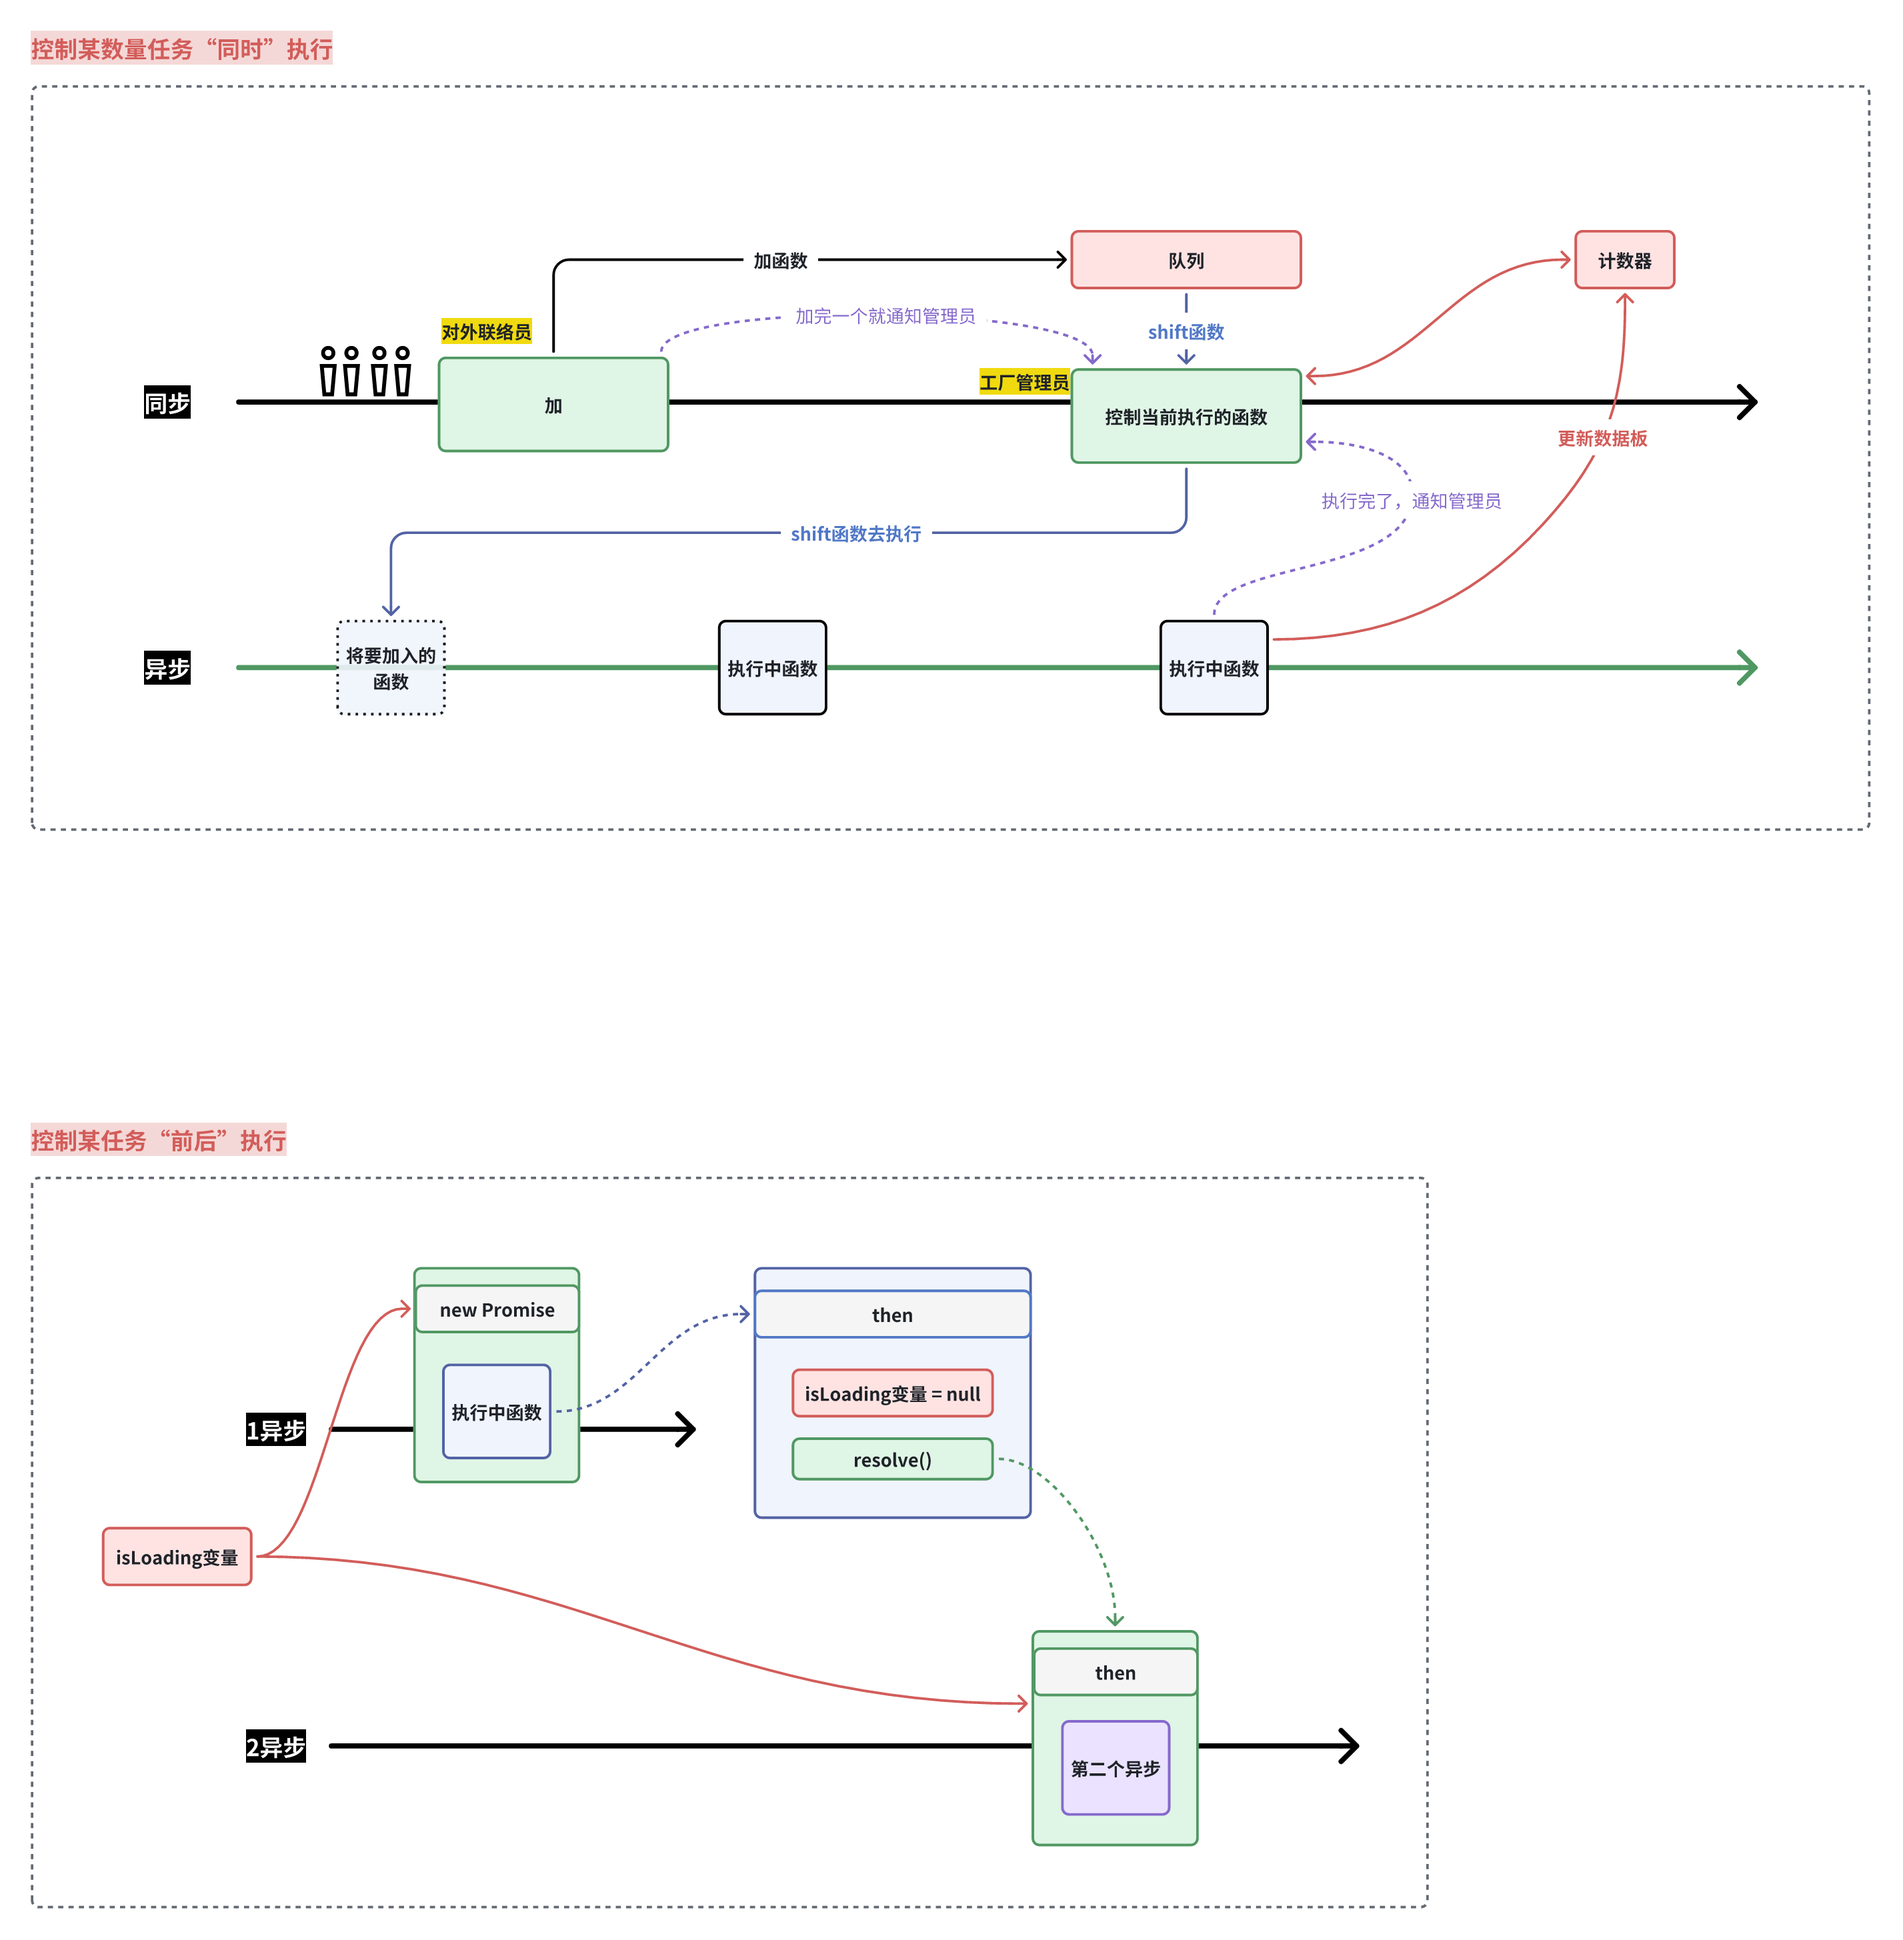
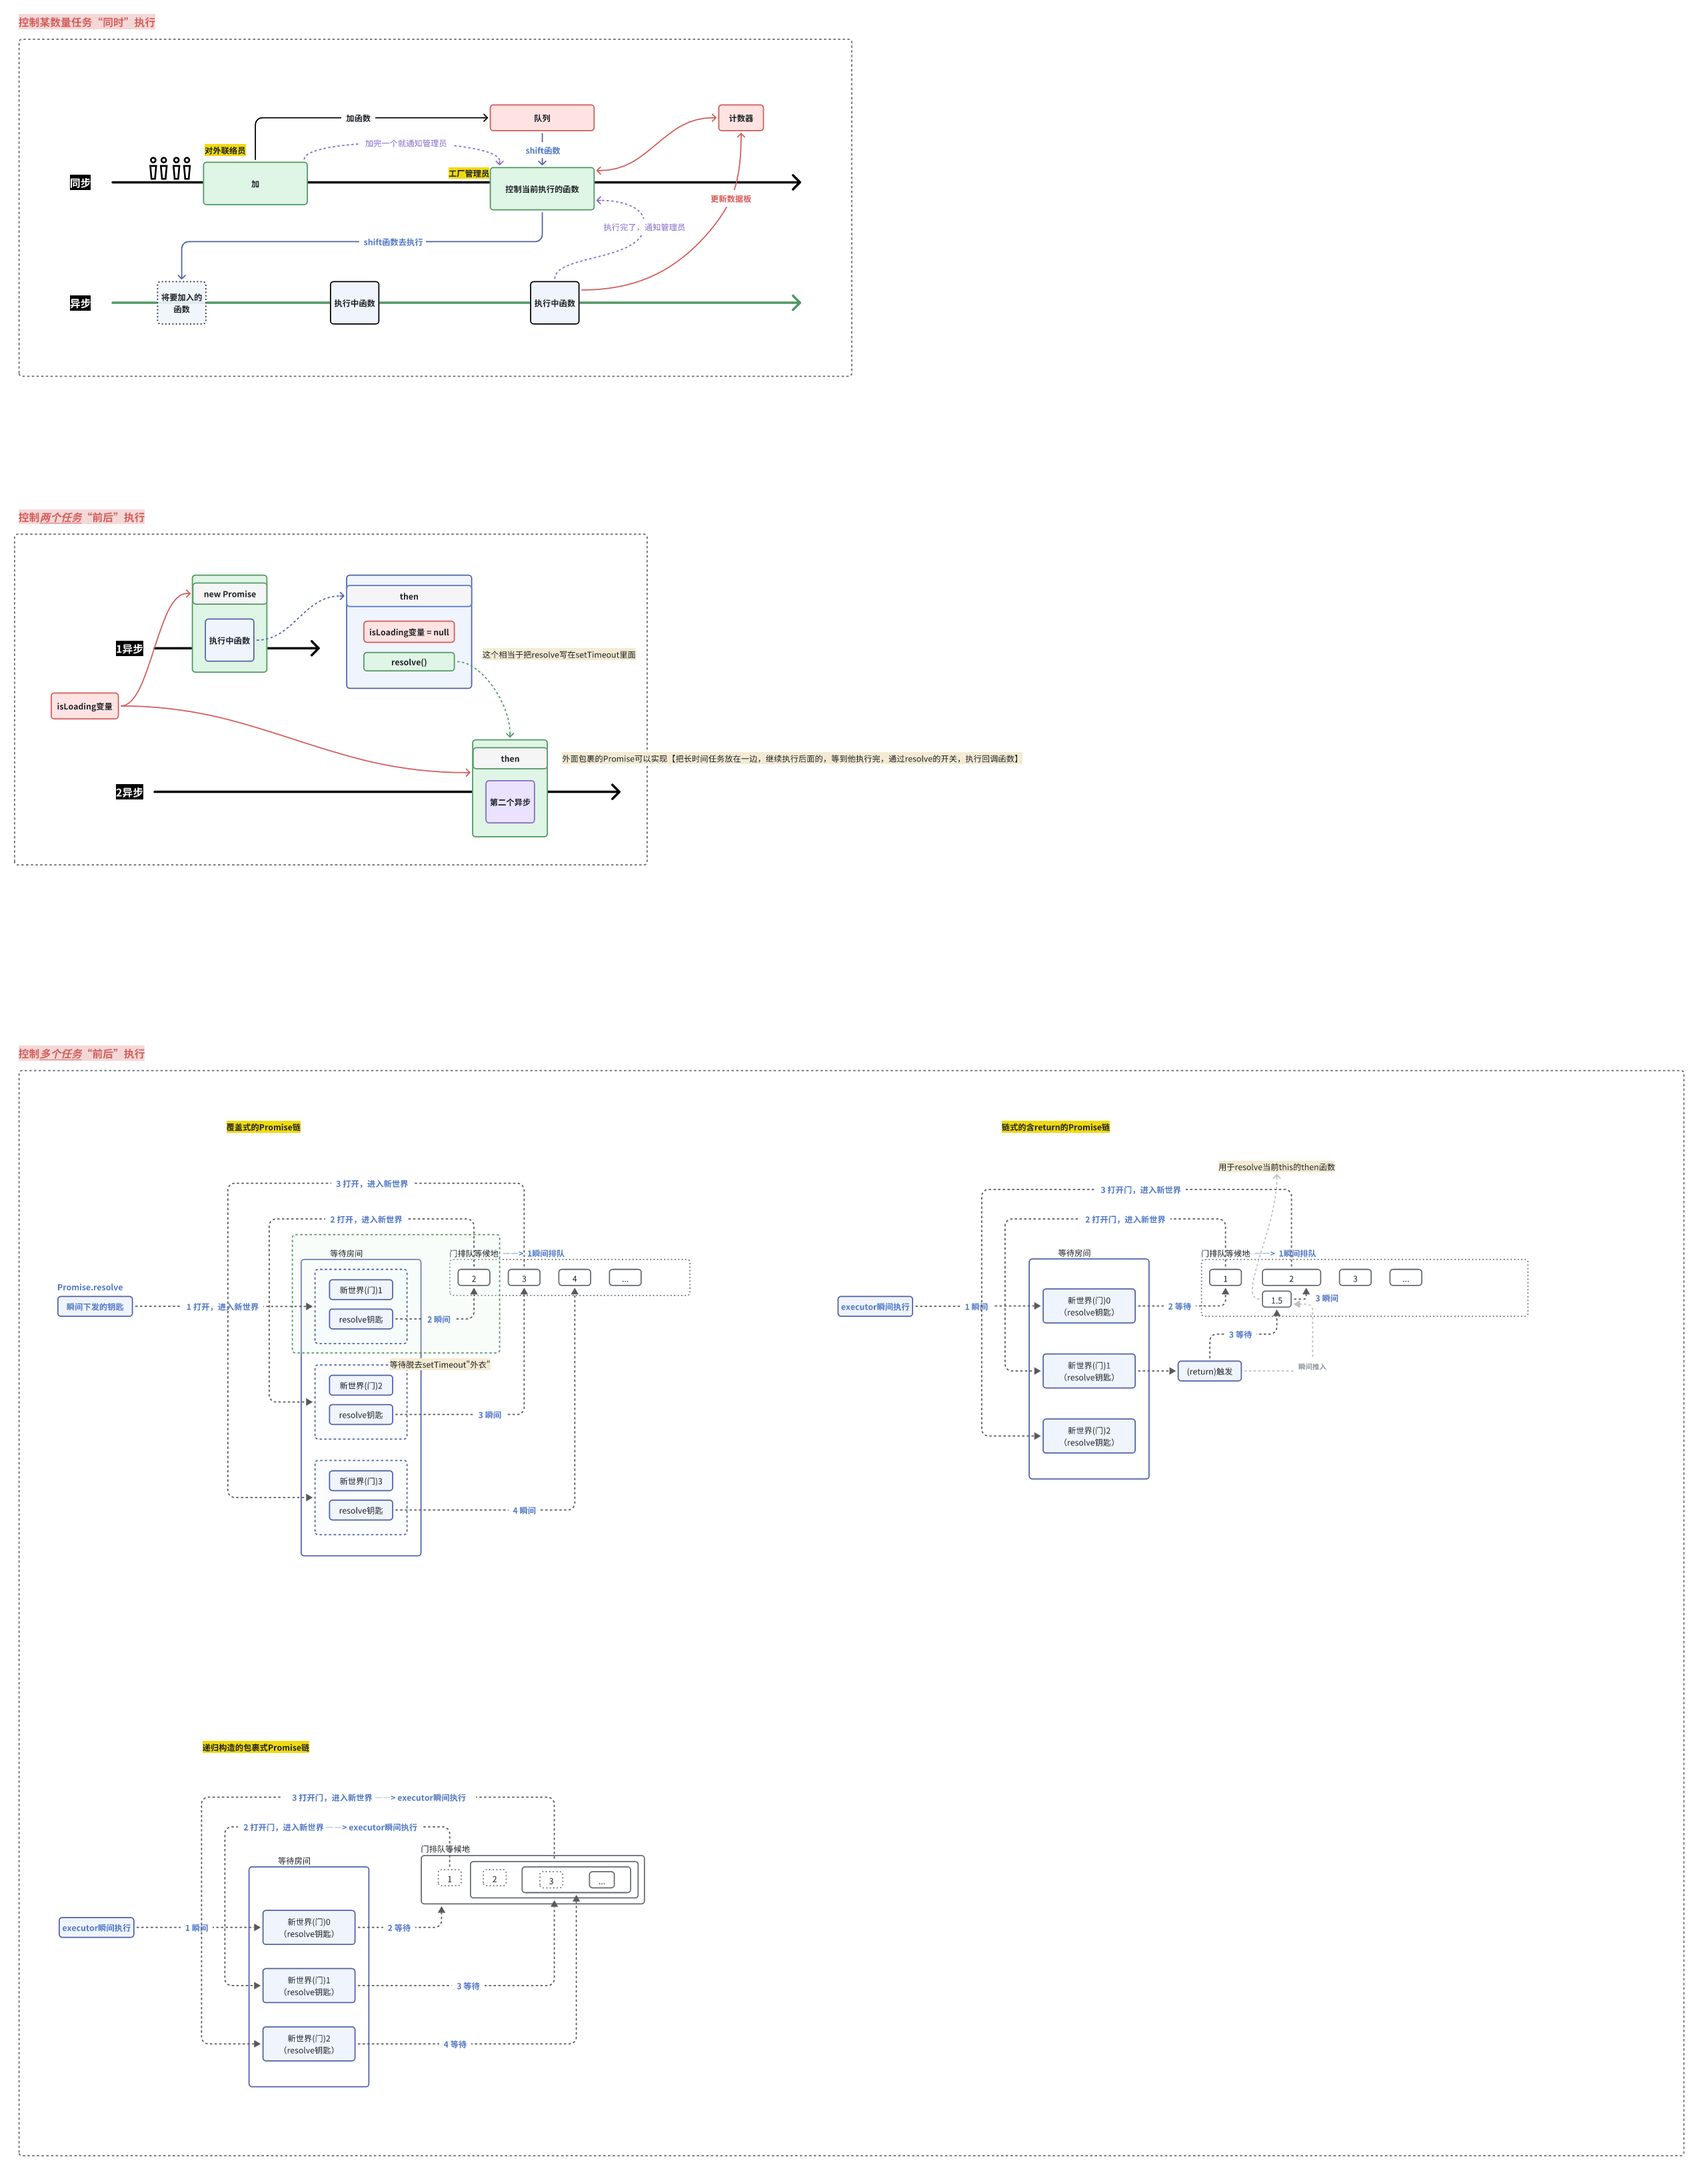
fix:20241013-promise

diff --git a/index.html b/index.html
@@ -1018,6 +1018,7 @@
     //     }
     // }
 
+
     
     // // 更加优雅的方式
     // function isInView(dom) {
@@ -1035,6 +1036,8 @@
     //     }
     // }
     // window.addEventListener('scroll', () => checkAndLoad())
+
+
 
 
     // // 优化方法：intersetsion observer
@@ -1063,16 +1066,15 @@
 
 
 
-    const arr = [1, 2, 3]
-    function task(num){
-        return new Promise((resolve, reject) => {
-            setTimeout(() => {
-                console.log(num)
-                console.log('打印完一次')
-                resolve()
-            }, 3000)
-        })
-    }
+    // const arr = [1, 2, 3]
+    // function task(num){
+    //     return new Promise((resolve, reject) => {
+    //         setTimeout(() => {
+    //             console.log(num)
+    //             resolve()
+    //         }, 3000)
+    //     })
+    // }
 
     // task(arr[0]).then(res => {
     //     return task(arr[1])
@@ -1083,10 +1085,13 @@
 
 
     // function back(arr, i) {
-    //     if (i === arr.length - 1) return () => task(arr[rr.length - 1])
+    //     if (i >= arr.length - 1) return () => task(arr[arr.length - 1])
     //     const bottomUpToTop = back(arr, i+1)
     //     const cur = i
-    //     return () => task(arr[cur]).then(bottomUpToTop())
+    //     if (cur === 0) {
+    //         task(arr[cur]).then(() => { bottomUpToTop()})
+    //     }
+    //     return () => task(arr[cur]).then(() => { bottomUpToTop()})
     // }
 
     // back(arr, 0)
@@ -1095,11 +1100,52 @@
 
 
 
+    // function recursivePrint(arr, index = 0) {
+    //     if (index >= arr.length) return
+    //     if (index < arr.length - 1) {
+    //         task(arr[index]).then(() => {
+    //             recursivePrint(arr, index + 1);
+    //         });
+    //     } else {
+    //         task(arr[arr.length - 1])
+    //     }
+    // }
+    // recursivePrint(arr, 0)
 
 
 
 
+    // (function loopThroughArray(arr) {
+    //     let promiseChain = Promise.resolve();
 
+    //     arr.forEach(num => {
+    //         promiseChain = promiseChain.then(() => task(num));
+    //     });
+    // })(arr);
+    
+
+    // let promiseChain = Promise.resolve();
+    // promiseChain = promiseChain.then(() => task(1));
+    // promiseChain = promiseChain.then(() => task(2));
+    // promiseChain = promiseChain.then(() => task(3));
+
+
+
+
+    // Promise.resolve().then(() => task(1))
+    // Promise.resolve().then(() => task(2))
+    // Promise.resolve().then(() => task(3))
+
+    
+
+
+
+    // async function printSequentially(arr) {
+    //     for (const num of arr) {
+    //         await task(num);
+    //     }
+    // }
+    // printSequentially(arr);
 
 
 

diff --git a/JSFoundation/EventLoop/promise.js b/JSFoundation/EventLoop/promise.js
@@ -16,6 +16,11 @@ class MyPromise {
       addToTaskQueue(function () {
         value.then(
           function onFulfilled(result) {
+
+            // 这里很关键！！！！
+            // 这里针对的是这个时候的上下文（then的promise或者外部调用resolve的promise）
+            // 即使value是一个无关的，新的promise实例，doResolve的也是针对this上下文来resolve的
+
             self._doResolve(result);
           },
           function onRejected(error) {
@@ -77,7 +82,7 @@ class MyPromise {
           resolve(self.promiseResult);
         };
       }
-  
+
       let rejectedTask;
       if (typeof onRejected === 'function') {
         rejectedTask = function () {
@@ -97,9 +102,15 @@ class MyPromise {
       switch (this.promiseState) {
         case 'pending':
           this.fulfillReactions.push(fulfilledTask);
-          if (rejectedTask) this.rejectReactions.push(rejectedTask);
+          this.rejectReactions.push(rejectedTask);
           break;
         case 'fulfilled':
+
+          // 这里要注意，fulfilledTask函数里面干两件事，执行回调函数，resolve 当前的then的promise的状态
+
+          // 而看下面的代码，这是被包裹了一层setTimeout的，也就是异步的
+          // 这意味着，如果同时遍历很多个then，说明第一个then返回的永远是pending，因为都没有执行resolve，而是等待“等房间”里面上一条任务执行完毕。
+
           addToTaskQueue(fulfilledTask);
           break;
         case 'rejected':

diff --git a/JSFoundation/EventLoop/summary.md b/JSFoundation/EventLoop/summary.md
@@ -119,12 +119,12 @@ class MacroTaskQueue {
 
 ### 控制xx任务“前后”执行
 
-2. 题目：有一个事件，点击之后有两个异步函数，要求等前一个执行完，才执行后一个
-
-思路：
-- 写一个顶部开关
-- 在执行中就让顶部开关直接等于new Promise，执行完之后立刻改变此Promise的状态，然后关掉开关
-- 另一个函数，拿到这个new Promise，等他执行完，因为他执行完相当于fetch执行完了
+1. 两个任务（且后一个任务不受前面的任务的控制）
+- 题目：有一个事件，点击之后有两个异步函数，要求等前一个执行完，才执行后一个
+- 思路：
+  - 写一个顶部开关
+  - 在执行中就让顶部开关直接等于new Promise，执行完之后立刻改变此Promise的状态，然后关掉开关
+  - 另一个函数，拿到这个new Promise，等他执行完，因为他执行完相当于fetch执行完了
 
 ```
 let isFirstLoading = null
@@ -159,3 +159,162 @@ function secondClick() {
 firstClick()
 secondClick()
 ```
+
+
+- 进阶：
+  - 上面的思路其实就是：用Promise包裹长任务，放在一边不管他，继续执行后面的，等到时间到了，resolve这个开关会触发回调函数的执行
+  - 相当于下面的代码，只是上面的只需要控制两个任务，且要考虑第二个任务不受第一个任务控制的情况
+
+```
+function task(num){
+    return new Promise((resolve, reject) => {
+        setTimeout(() => {
+            console.log(num)
+            resolve()
+        }, 3000)
+    })
+}
+
+task(1).then(res => 第二个任务)
+```
+
+
+
+
+
+
+2. 多个任务
+
+- 题目：有一个数组，实现这个数组每一个元素隔3秒打印一次
+
+```
+const arr = [1, 2, 3]
+function task(num){
+    return new Promise((resolve, reject) => {
+        setTimeout(() => {
+            console.log(num)
+            resolve()
+        }, 3000)
+    })
+}
+```
+
+
+- 思路1：
+  - 用覆盖式的Promise链
+  - 为什么要覆盖式，利用then返回一个宏任务（宏任务里面才有resolve）的特征，使得变量被覆盖为一个pending的promise对象
+  - 也就是说，每次调用回调函数，放入队列中都是受到setTimeout包裹的函数，需要等待上一个任务执行完毕，更清晰的说法就是：【上一个任务与resolve开关同时进行，只不过因为下一个任务受到setTimeout包裹，才会等待上一个任务执行】
+  - 等待的是一个包
+
+```
+(function loopThroughArray(arr) {
+    let promiseChain = Promise.resolve();
+
+    arr.forEach(num => {
+        promiseChain = promiseChain.then(() => task(num));
+    });
+})(arr);
+
+
+// 下面的和上面的是一样的
+let promiseChain = Promise.resolve();
+promiseChain = promiseChain.then(() => task(1));
+promiseChain = promiseChain.then(() => task(2));
+promiseChain = promiseChain.then(() => task(3));
+
+
+// 但是不能写成这样，不然相当于所有元素隔3秒之后会一起打印
+Promise.resolve().then(() => task(1))
+Promise.resolve().then(() => task(2))
+Promise.resolve().then(() => task(3))
+```
+
+
+- 思路2
+  - 用链式的包含return的Promise链
+  - 为什么要包含return，对于每个then回调函数之间，如果不return且return一个Promise的话，（除了第一个回调函数受到控制）其他的回调函数执行完之后就会自动resolve，后面的回调函数就会立刻执行，导致第二个元素及后面的元素被同时加到webAPI中计时，完了一起打印出来
+  - return相当于执行了resolve(Promise)，首先使得本次的状态不会立刻变为fullfilled，其次，根据传入的Promise的resolve时间点，执行【把本轮then的Promise的状态变为fullfilled】，具体如下：
+    - return 已经瞬间resolve的promise ——> 与不return无区别
+    - return 延后resolve的promise ——> 起实际作用，相当于打断默认的瞬间resolve
+    - return 一直不resolve的promise ——> 相当于永远不会resolve，后面的then一直不会触发
+    - （无论return的是一个新的promise还是怎么样，都可以保证最后resolve的是当前then的promise）
+  
+```
+// 正确做法
+task(arr[0]).then(res => {
+    return task(arr[1])
+}).then(res => {
+    task(arr[2])
+})
+
+// 这个与不return没有区别，因为resolve是瞬间给到then函数的，导致then函数会瞬间执行，改变当前的resolve
+task(arr[0]).then(res => {
+    task(arr[1])
+    return new Promise((resolve) => {resolve()})
+}).then(res => {
+    task(arr[2])
+})
+
+// 这个不会打印3，因为相当于永远不会resolve，最后的回调函数永远不会被执行
+task(arr[0]).then(res => {
+    task(arr[1])
+    return new Promise((resolve) => {})
+}).then(res => {
+    task(arr[2])
+})
+```
+
+
+- 思路3
+  - 用递归构造包裹式的Promise链
+  - 递归有两种思路，第一种是从上到下收集结果，也就是从外往里包裹。
+    - 此时最外层为【一次操作单元】，即本次.then(
+    - 这时需要注意末尾的处理，不能也是本次.then(下一次)的形式，应该只是最后一次。
+    - 构造出的链条形如：task(arr0).then(task(arr1).then(arr2))
+  
+```
+function recursivePrint(arr, index = 0) {
+    if (index >= arr.length) return
+    if (index < arr.length - 1) {
+        task(arr[index]).then(() => {
+            recursivePrint(arr, index + 1);
+        });
+    } else {
+        task(arr[arr.length - 1])
+    }
+}
+recursivePrint(arr, 0)
+  
+  - 第二种思路是从下往上收集结果，也就是从内往外包裹。
+    - 此时内层为【一次操作单元】，即下一次)，因为需要先探底到最后一程，然后向上返回“下一次”的任务
+    - 这时顶部肯定是遍历到最末尾，返回的应该是最末尾的任务，即task(arr[arr.length - 1])，为了防止这个时候就执行了，用一个函数包裹一下
+    - 首部也需要额外构造，或者说首部应该是函数触发执行的导火索，这个逻辑应该放在递归函数的后面，等bottomUpToTop构造好了后面所有函数的时候，判断curIndex为0，然后执行
+    
+function back(arr, i) {
+    if (i >= arr.length - 1) return () => task(arr[arr.length - 1])
+    const bottomUpToTop = back(arr, i+1)
+    const cur = i
+    if (cur === 0) {
+        task(arr[cur]).then(() => { bottomUpToTop()})
+    }
+    return () => task(arr[cur]).then(() => { bottomUpToTop()})
+}
+
+back(arr, 0)
+```
+
+
+- 思路4
+  - 最简单的做法，直接同步遍历，然后await等待，执行完一句之后才去下一句
+
+```
+async function printSequentially(arr) {
+    for (const num of arr) {
+        await task(num);
+    }
+}
+printSequentially(arr);
+```
+
+
+
